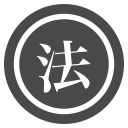
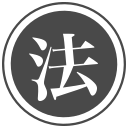
feat: アイコン原本および全解像度PNGを候補2（文字290px・白丸r=226の最大拡大）に刷新

diff --git a/options.html b/options.html
@@ -3,6 +3,8 @@
 <head>
   <meta charset="UTF-8">
   <title>e-Gov法令ひもとき - 詳細設定</title>
+  <link rel="icon" type="image/svg+xml" href="icons/icon.svg">
+  <link rel="icon" type="image/png" sizes="32x32" href="icons/icon48.png">
   <link rel="stylesheet" href="css/options.css">
 </head>
 <body>
